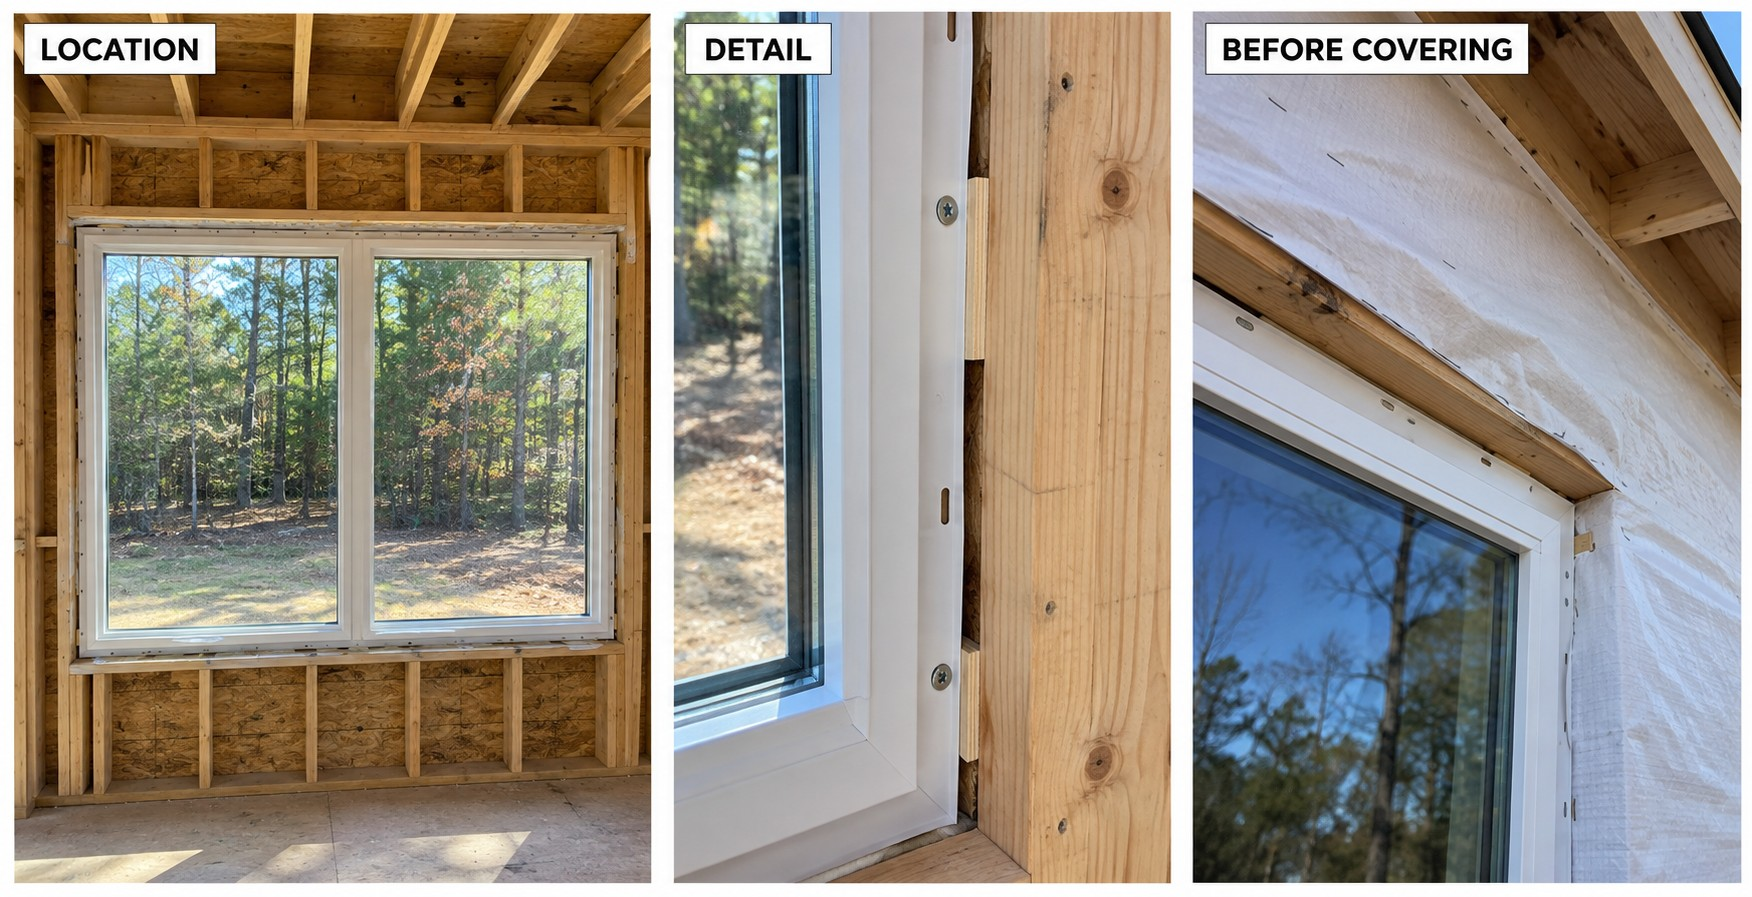
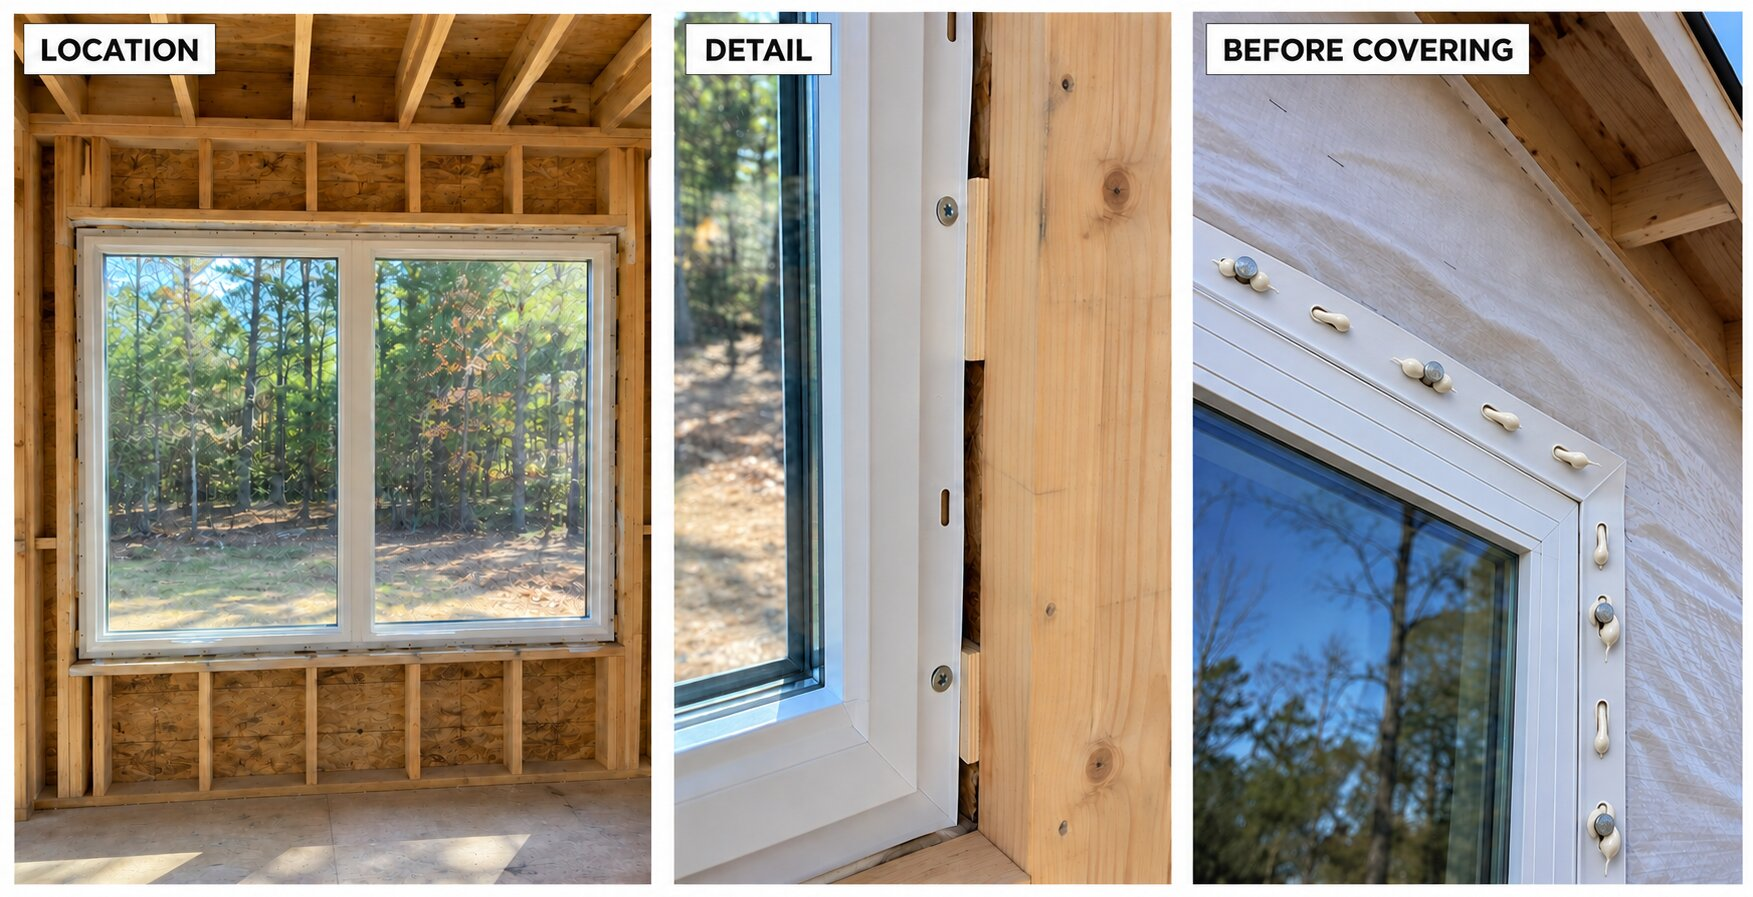
Show window nail fin with caulk squeeze-out and construction-stage final walk photos

diff --git a/index.html b/index.html
@@ -2975,8 +2975,8 @@ are more likely to continue.
 <details class="wd-photo-example" id="wd-photo-setting-fastening"><summary><strong>Setting &amp; Fastening</strong></summary><figure style="margin:12px 0;"><img src="assets/wd-example-setting-fastening.jpg?v=20261106-no-clipboard" alt="Setting and Fastening photo documentation examples" loading="lazy" style="display:block;width:100%;height:auto;border-radius:8px;"><figcaption><p>Document alignment, shims, clearances, and fastening before the work is concealed. Verify fastener type, location, spacing, penetration, and shim requirements against the applicable product instructions and approved details; do not use an example photo as the fastening schedule.</p></figcaption></figure></details>
 <details class="wd-photo-example" id="wd-photo-window-check"><summary><strong>Completed Window Check</strong></summary><figure style="margin:12px 0;"><img src="assets/wd-example-window-check.jpg" alt="Completed Window Check photo documentation examples" loading="lazy" style="display:block;width:100%;height:auto;border-radius:8px;"><figcaption><p>Operate and lock every unit. Photograph sash alignment, lock engagement, weatherstripping, and clear weep openings where applicable. Still photos support the record; physically verify smooth operation and document any binding or defects.</p></figcaption></figure></details>
 <details class="wd-photo-example" id="wd-photo-door-check"><summary><strong>Completed Door Check</strong></summary><figure style="margin:12px 0;"><img src="assets/wd-example-door-check.jpg?v=20261106-latch-treated-support" alt="Door checks showing reveals, a spring latch and strike plate, weatherstripping, and a pressure-treated 2x sill support with blue Tapcon screws" loading="lazy" style="display:block;width:100%;height:auto;border-radius:8px;"><figcaption><p>Check and photograph consistent reveals, smooth operation, latch/deadbolt engagement, weatherstripping, threshold condition, and sill support. Confirm support and sealing against the applicable door instructions and builder requirements, and document any daylight, binding, damage, or gaps.</p></figcaption></figure></details>
-<details class="wd-photo-example" id="wd-photo-before-covering"><summary><strong>Before Covering</strong></summary><figure style="margin:12px 0;"><img src="assets/wd-example-before-covering.jpg" alt="Before Covering photo documentation examples" loading="lazy" style="display:block;width:100%;height:auto;border-radius:8px;"><figcaption><p>Capture wide location views and close-ups of installation details before interior trim or exterior cladding conceals them. Document shims, fastening, perimeter flashing, and transitions as applicable, and verify against the approved product-specific details.</p></figcaption></figure></details>
-<details class="wd-photo-example" id="wd-photo-final-walk"><summary><strong>Final Walk &amp; Cleanup</strong></summary><figure style="margin:12px 0;"><img src="assets/wd-example-final-walk.jpg" alt="Final Walk and Cleanup photo documentation examples" loading="lazy" style="display:block;width:100%;height:auto;border-radius:8px;"><figcaption><p>Upload completed elevation and interior condition photos, document product protection and cleanup, and identify any outstanding punch items by unit/location. Enter punch items in Appwright, make installer notes public as required, and coordinate the return visit when necessary.</p></figcaption></figure></details>
+<details class="wd-photo-example" id="wd-photo-before-covering"><summary><strong>Before Covering</strong></summary><figure style="margin:12px 0;"><img src="assets/wd-example-before-covering.jpg?v=20261106-nail-fin-caulk" alt="Window documentation showing location, shims, and a nail fin with visible caulk squeeze-out at nail holes before covering" loading="lazy" style="display:block;width:100%;height:auto;border-radius:8px;"><figcaption><p>Capture wide location views and close-ups of installation details before interior trim or exterior cladding conceals them. Document shims, fastening, perimeter flashing, and transitions as applicable, and verify against the approved product-specific details.</p></figcaption></figure></details>
+<details class="wd-photo-example" id="wd-photo-final-walk"><summary><strong>Final Walk &amp; Cleanup</strong></summary><figure style="margin:12px 0;"><img src="assets/wd-example-final-walk.jpg?v=20261106-under-construction" alt="Home under construction with installed windows and doors, and a clean exposed-framing interior without sheetrock" loading="lazy" style="display:block;width:100%;height:auto;border-radius:8px;"><figcaption><p>Upload completed elevation and interior condition photos, document product protection and cleanup, and identify any outstanding punch items by unit/location. Enter punch items in Appwright, make installer notes public as required, and coordinate the return visit when necessary.</p></figcaption></figure></details>
 <details class="wd-photo-example" id="wd-photo-service-request"><summary><strong>Service Requests</strong></summary><figure style="margin:12px 0;"><img src="assets/wd-example-service-request.jpg" alt="Service Requests photo documentation examples" loading="lazy" style="display:block;width:100%;height:auto;border-radius:8px;"><figcaption><p>Include a full-unit photo, a clear close-up of the issue, the actual product label, and a photo or room/location reference. Add the lot/address, unit identification, observed issue, and when it occurs to the Appwright request. The label and room sketch shown are examples.</p></figcaption></figure></details>
 </details>
 <details>
